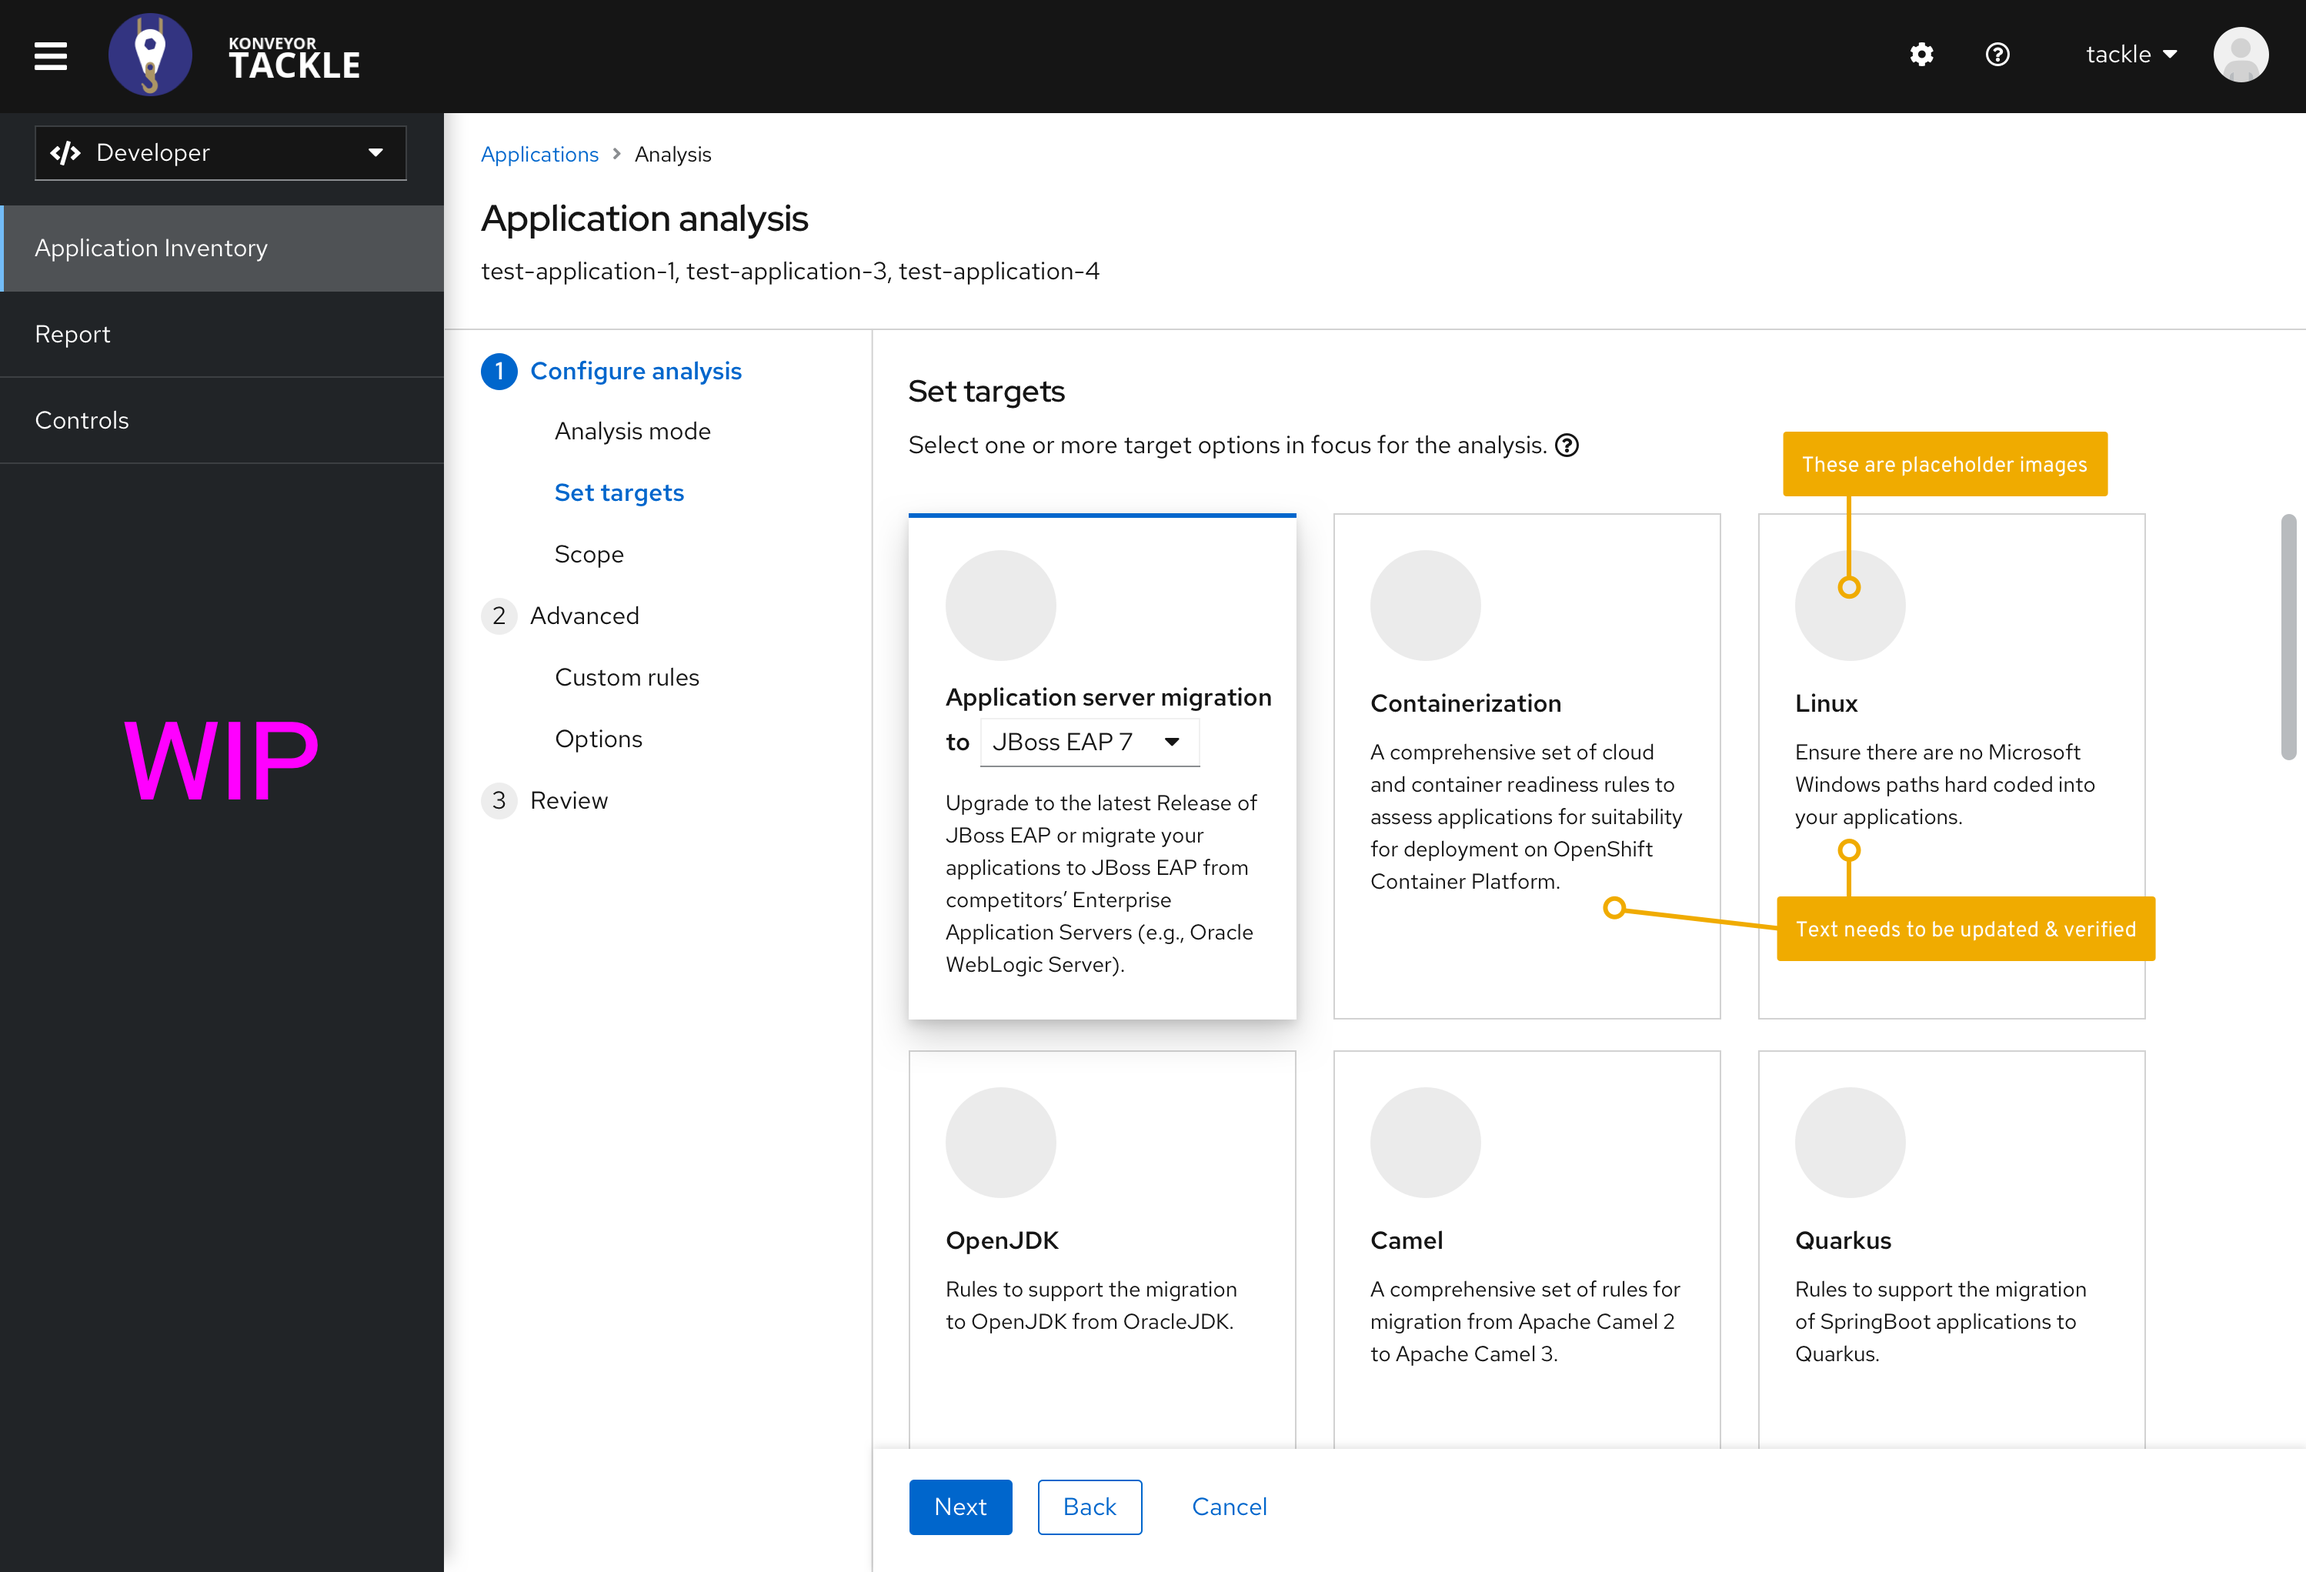
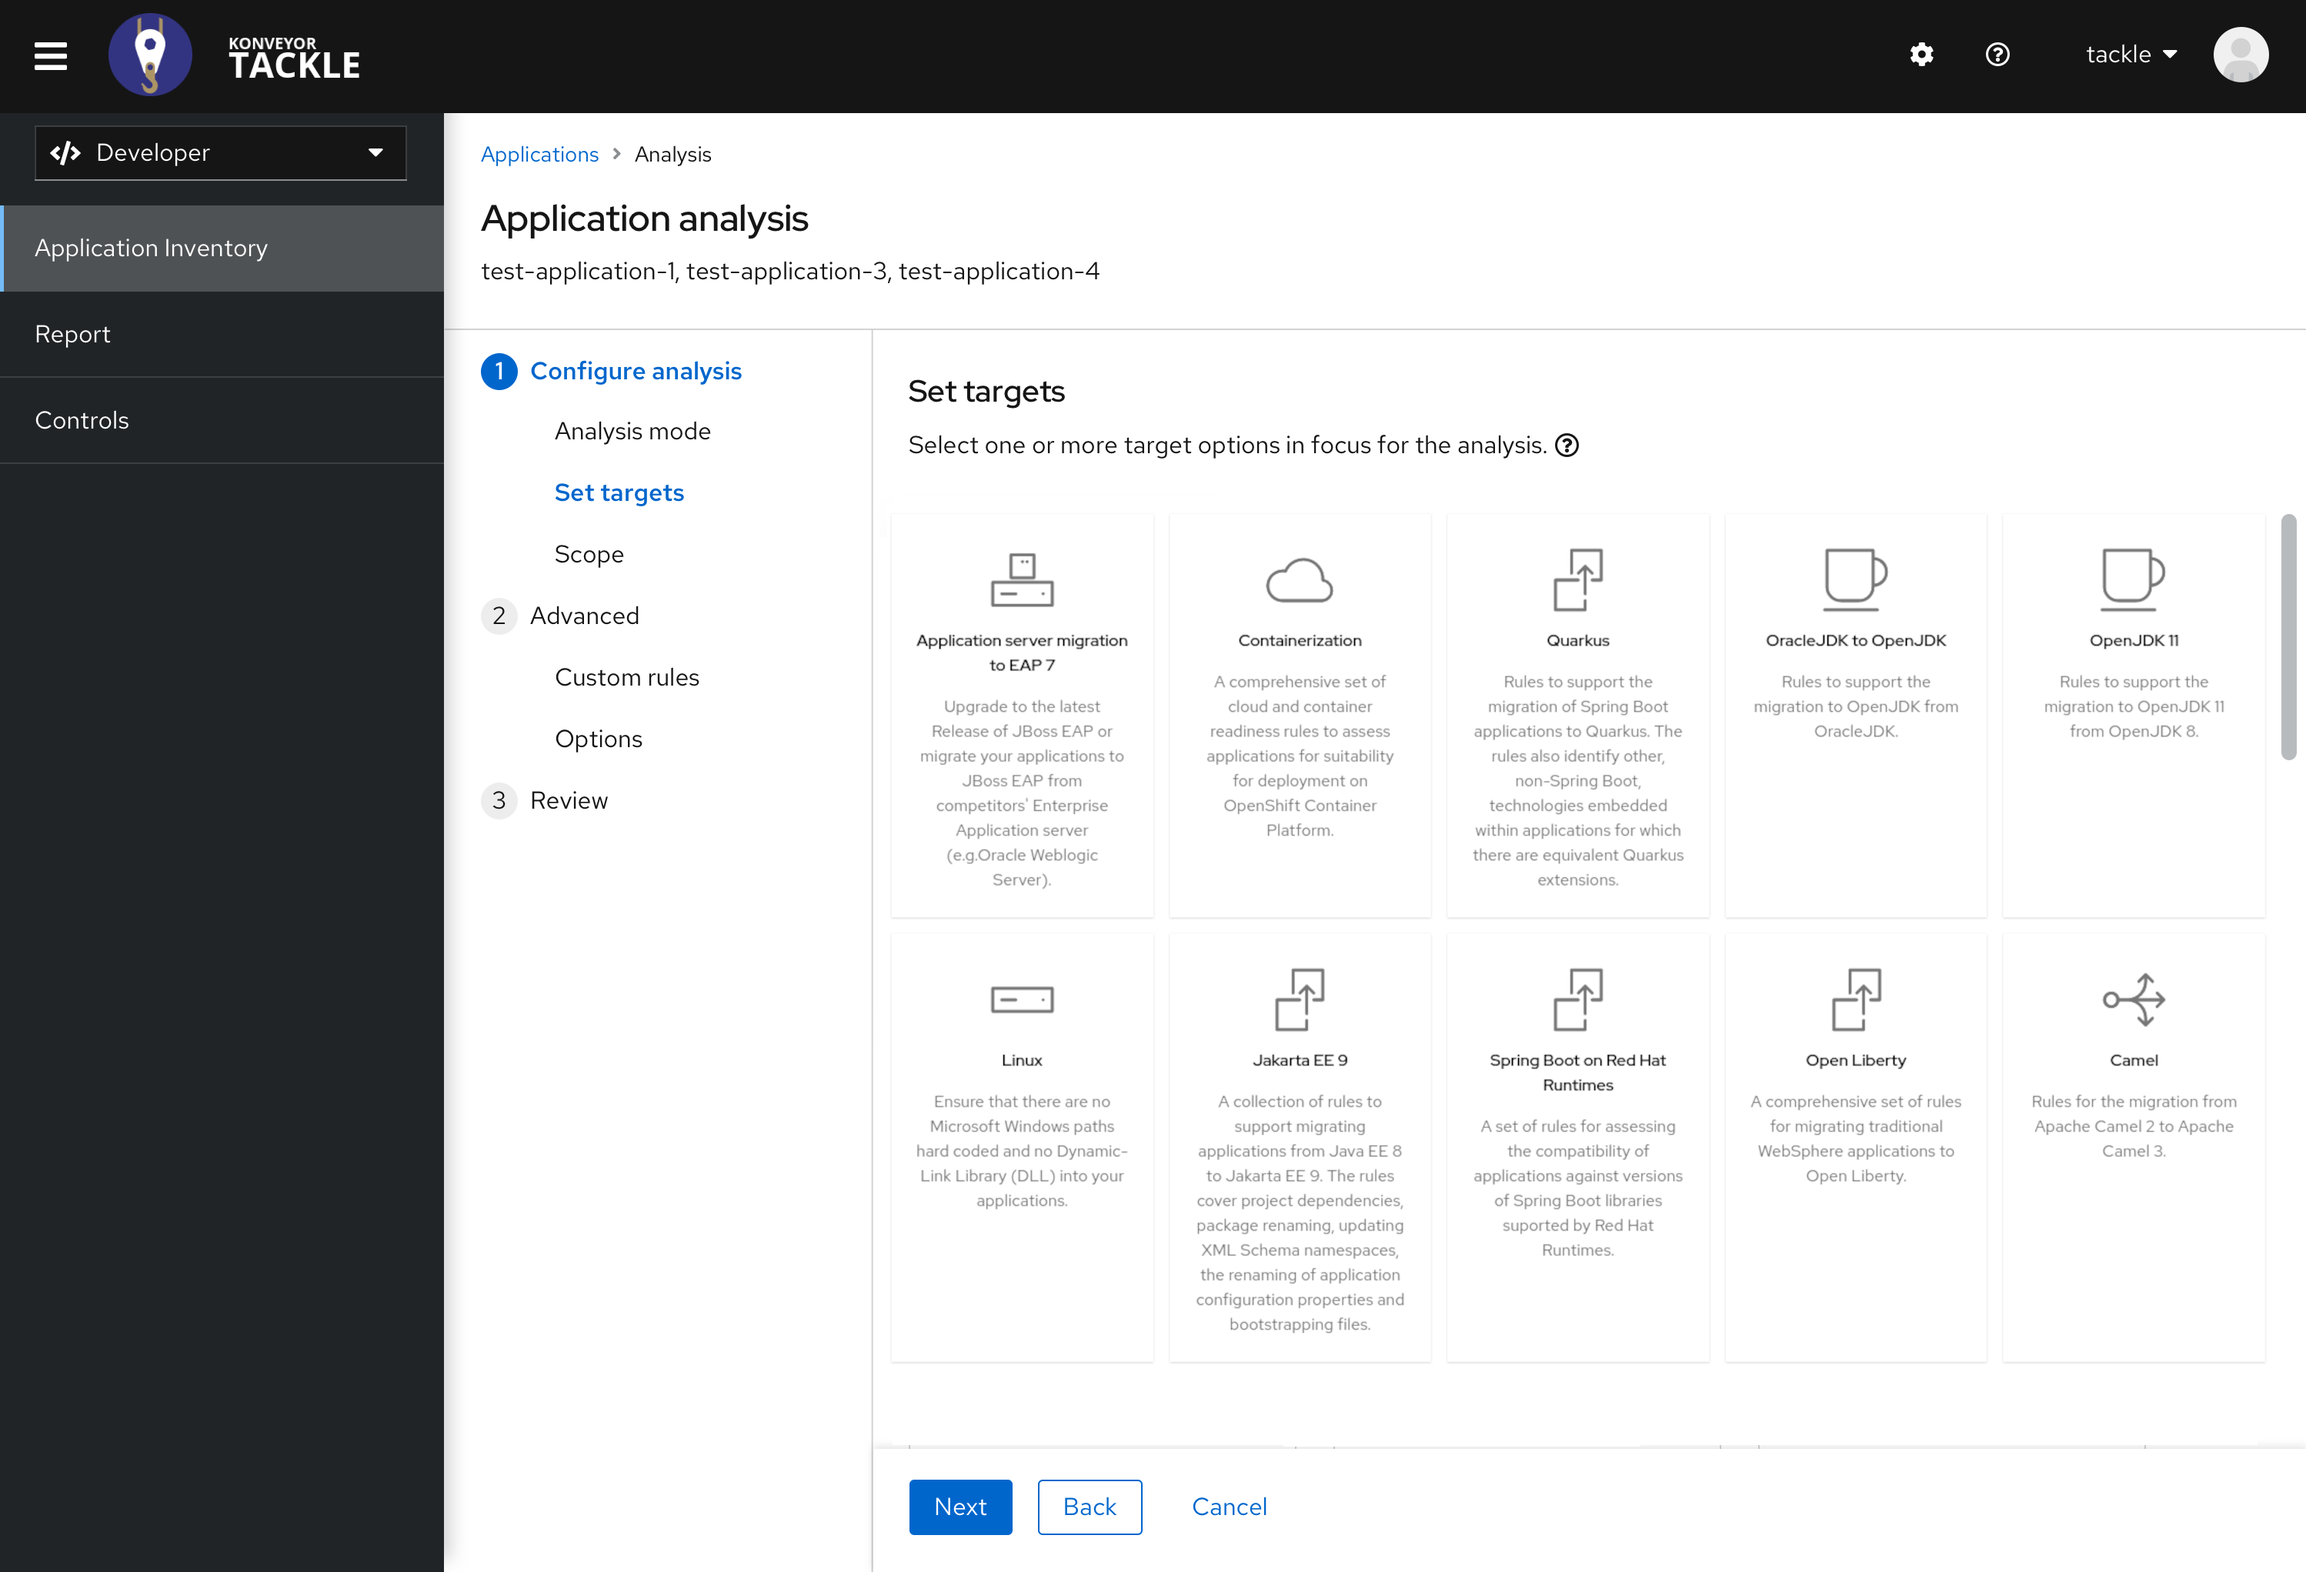
Added new runtimes to the Transformation target screen

diff --git a/enhancements/tackle/tackle-windup-integration/README.md b/enhancements/tackle/tackle-windup-integration/README.md
@@ -431,18 +431,27 @@ Each transformation target will be presented with a box that includes an icon an
 - **Linux**
   - Text: *Ensure there are no Microsoft Windows paths hard coded into your applications.*
   - Windup target value: **linux**
-- **OpenJDK**
-  - Text: *Rules to support the migration to OpenJDK from OracleJDK.*
+- **Oracle JDK to OpenJDK**
+  - Text: *Rules to support the migration to OpenJDK from Oracle JDK.*
   - Windup target value: **openjdk**
-- **Camel**
-  - Text: *A comprehensive set of rules for migration from Apache Camel 2 to Apache Camel 3.*
-  - Windup target value: **camel**
+- **OpenJDK 11**
+  - Text: *Rules to support the migration to OpenJDK 11 from OpenJDK 8.*
+  - Windup target value: **openjdk11**
+- **Jakarta EE 9**
+  - Text: *A collection of rules to support migrating applications from Java EE 8 to Jakarta EE 9. The rules cover project dependencies, package renaming, updating XML Schema namespaces, the renaming of application configuration properties and bootstrapping files.*
+  - Windup target value: **jakarta-ee**
 - **Quarkus**
   - Text: *Rules to support the migration of Spring Boot applications to Quarkus.*
   - Windup target value: **quarkus**
 - **Spring Boot on Red Hat Runtimes**
   - Text: *A set of rules for assessing the compatibility of applications against the versions of Spring Boot libraries supported by Red Hat Runtimes.*
   - Windup target value: **rhr**
+- **Open Liberty**
+  - Text: *A comprehensive set of rules for migrating traditional WebSphere applications to Open Liberty.*
+  - Windup target value: **openliberty**
+- **Camel**
+  - Text: *A comprehensive set of rules for migration from Apache Camel 2 to Apache Camel 3.*
+  - Windup target value: **camel**
 
 The "Windup target value" entry for each one of the transformation paths above will define the value that gets passes to the Windup CLI with the --target flag. Multiple boxes can be selected in this screen, and consequently, multiple --target flags can be passed to the Windup CLI.
 
